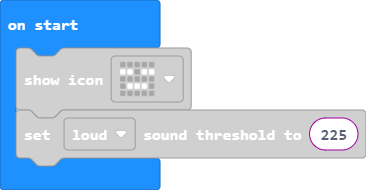
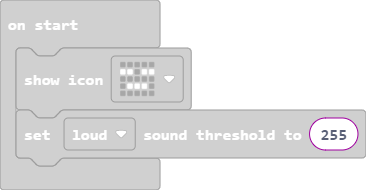
it was still triggering with its own sounds,threshold set to max

Changed region(s): [[0.0, 0.0, 0.4508, 1.0], [0.9016, 0.6842, 0.9317, 0.7368]]

diff --git a/main.ts b/main.ts
@@ -224,4 +224,4 @@ input.onSound(DetectedSound.Loud, function () {
         `)
 })
 basic.showIcon(IconNames.Asleep)
-input.setSoundThreshold(SoundThreshold.Loud, 225)
+input.setSoundThreshold(SoundThreshold.Loud, 255)
